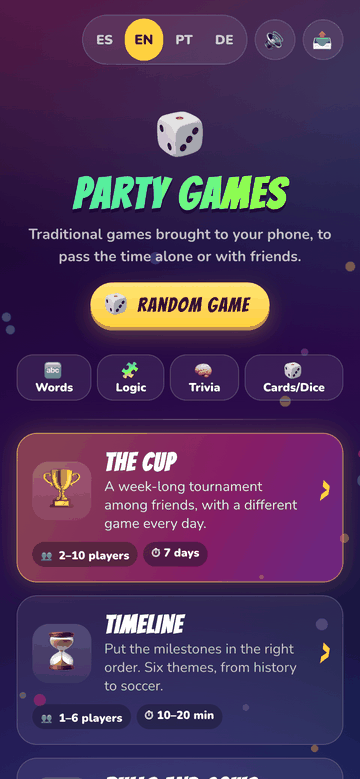
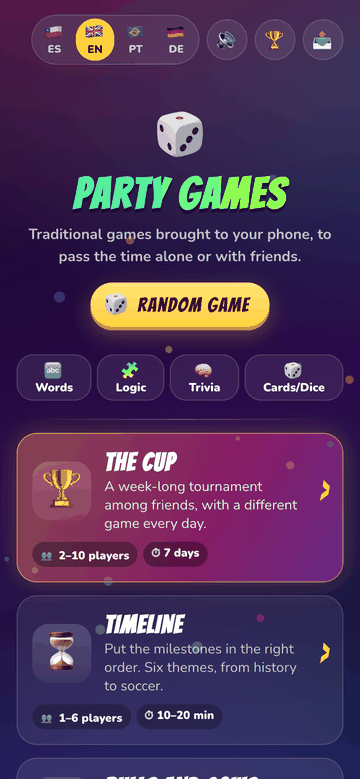
El selector de idioma lleva las banderas siempre, con un estándar en C-3 (D-230)
En un celular angosto la bandera sube encima del código en vez de esconderse: el toggle
queda del mismo ancho. BANDERAS y NOMBRES_IDIOMA en i18n.js, exigidos por la paridad.

diff --git a/public/assets/css/base.css b/public/assets/css/base.css
@@ -207,28 +207,30 @@ details.panel summary::-webkit-details-marker { display: none; }
 /* Confeti (canvas) */
 #confetti { position: fixed; inset: 0; pointer-events: none; z-index: 50; }
 
-/* --- Toggle de idioma --- */
+/* --- Toggle de idioma (D-230): bandera y código en cada botón, siempre --- */
 .lang-toggle {
   display: inline-flex; gap: 4px; padding: 4px; border-radius: 999px;
   background: var(--glass); border: 1px solid var(--glass-border);
 }
 .lang-toggle button {
+  display: inline-flex; align-items: center; justify-content: center; gap: 6px;
   border: 0; cursor: pointer; border-radius: 999px; padding: 7px 12px;
   min-height: 44px; /* C-8: un dedo cabe, como en todos los botones */
-  font: 900 0.9rem var(--font-body); color: var(--muted); background: transparent;
+  font: 900 0.9rem var(--font-body); line-height: 1; color: var(--muted); background: transparent;
   transition: background 0.15s, color 0.15s, transform 0.1s;
 }
+.lang-toggle .flag { font-size: 1.1em; }
 .lang-toggle button.on { background: var(--yellow); color: #3a1200; transform: scale(1.04); }
 .lang-toggle button:active { transform: scale(0.96); }
 /*
- * Con cuatro idiomas (el alemán en el laboratorio, D-191) el toggle mide unos 280 px y, en la
- * barra de arriba de la portada, empujaba el sonido y compartir fuera de la pantalla. En un
- * celular angosto se aprieta y deja solo el código (ES EN PT DE); si igual no cabe, los botones
- * redondos bajan a una segunda línea antes que salirse.
+ * Con cuatro idiomas el toggle en línea mide unos 290 px y, en la barra de arriba de la portada,
+ * empuja el sonido y compartir fuera de la pantalla. En un celular angosto la bandera no se
+ * esconde (antes sí, D-230): sube encima del código, y el toggle queda del ancho que tenía con
+ * el código solo. Si igual no cabe, los botones redondos bajan a una segunda línea antes que salirse.
  */
 @media (max-width: 440px) {
-  .lang-toggle:has(> :nth-child(4)) button { padding: 7px 10px; }
-  .lang-toggle:has(> :nth-child(4)) .flag { display: none; }
+  .lang-toggle:has(> :nth-child(4)) button { flex-direction: column; gap: 2px; padding: 4px 9px; font-size: 0.72rem; }
+  .lang-toggle:has(> :nth-child(4)) .flag { font-size: 1.25rem; }
 }
 .topbar .tools:has(> #lang-slot) { flex-wrap: wrap; justify-content: flex-end; }
 

diff --git a/public/assets/js/i18n.js b/public/assets/js/i18n.js
@@ -415,19 +415,27 @@ export function pickLang(obj, lang = getLang()) {
 }
 
 /**
- * Toggle ES / EN / PT. `onChange(lang)` se llama tras guardar el idioma nuevo.
- * Por defecto recarga la página para que todo se re-renderice con el idioma elegido.
+ * La bandera y el nombre propio de cada idioma, para el toggle (D-230). Un idioma nuevo trae
+ * los dos: la prueba de paridad lo exige. Es la bandera del país de la app en ese idioma
+ * (el español es el de Chile, el portugués el de Brasil, D-191, D-194).
+ */
+export const BANDERAS = { es: '🇨🇱', en: '🇬🇧', pt: '🇧🇷', de: '🇩🇪' };
+export const NOMBRES_IDIOMA = { es: 'Español', en: 'English', pt: 'Português', de: 'Deutsch' };
+
+/**
+ * El selector de idioma, el único de la app (D-230): cada botón lleva su bandera y su código,
+ * siempre, también en un celular angosto (base.css). `onChange(lang)` se llama tras guardar el
+ * idioma nuevo; por defecto recarga la página para que todo se re-renderice con el elegido.
  */
 export function langToggle(onChange = () => location.reload()) {
   const current = getLang();
   const wrap = el('div', { class: 'lang-toggle', role: 'group', 'aria-label': 'Idioma / Language / Idioma / Sprache' });
-  // La bandera va aparte: con cuatro idiomas en un celular angosto se esconde (base.css)
-  const flags = { es: '🇨🇱', en: '🇬🇧', pt: '🇧🇷', de: '🇩🇪' };
   for (const lang of LANGS) {
     wrap.append(el('button', {
       type: 'button', class: lang === current ? 'on' : '', 'aria-pressed': lang === current ? 'true' : 'false',
+      lang, title: NOMBRES_IDIOMA[lang], 'aria-label': NOMBRES_IDIOMA[lang],
       onClick: () => { if (lang === getLang()) return; setLang(lang); onChange(lang); },
-    }, el('span', { class: 'flag' }, flags[lang] + ' '), lang.toUpperCase()));
+    }, el('span', { class: 'flag', 'aria-hidden': 'true' }, BANDERAS[lang]), el('span', { class: 'code' }, lang.toUpperCase())));
   }
   return wrap;
 }

diff --git a/docs/DECISIONES.md b/docs/DECISIONES.md
@@ -53,7 +53,7 @@ que siguen explicando algo; las reemplazadas y derogadas quedan fuera.
 |---|---|---|
 | Estructura y rutas | C-2 | D-01, D-02, D-03, D-24, D-192, D-198 |
 | Identidad y textos | C-1 | D-11, D-30, D-49, D-177, D-184 |
-| Idiomas | C-3 | D-47, D-74, D-170, D-191, D-194, D-197, D-199 |
+| Idiomas | C-3 | D-47, D-74, D-170, D-191, D-194, D-197, D-199, D-230 |
 | Sonido y vibración | C-4 | D-17, D-92 |
 | Modos de juego | C-5 | D-27, D-65, D-129, D-142, D-213 |
 | Salas y transporte | C-7, C-15 | D-18, D-20, D-29, D-35, D-39, D-41, D-50, D-89, D-138 |
@@ -3800,3 +3800,19 @@ dentro de la app instalada.
 **Consecuencias:** Quien instala la app en un iPhone ve los avisos antes de que se abran a todos.
 Son pocos y es justo lo que se quiere probar. `push.test.mjs` y `tools/e2e/cup/avisos.mjs` lo
 prueban.
+
+## D-230 · El selector de idioma lleva las banderas siempre
+**Fecha:** 2026-10-05 · **Estado:** vigente · **Relación:** corrige la nota de `base.css` de D-191 (en un celular angosto se escondía la bandera)
+**Decisión:** Pedido del dueño: todos los selectores de idioma llevan sus banderas, y queda un
+estándar de diseño para el widget (C-3). En un celular de hasta 440 px, con cuatro idiomas, el
+toggle escondía las banderas para no empujar el sonido y compartir fuera de la barra de arriba:
+así, en el celular, que es donde más se juega, nunca se veían.
+- La bandera ya no se esconde: en una pantalla angosta sube **encima** del código, y el toggle
+  queda del ancho que tenía con el código solo (unos 180 px). En una pantalla ancha va al lado.
+- Las banderas y los nombres de cada idioma salen de `BANDERAS` y `NOMBRES_IDIOMA` en `i18n.js`,
+  y la prueba de paridad exige uno por idioma de `IDIOMAS`.
+- Cada botón dice su idioma en su idioma (`aria-label`, `title`, `lang`): la bandera es decorativa.
+**Por qué:** La bandera se reconoce antes que el código, sobre todo para quien no lee español.
+Apilarla mantiene el ancho y los 44 px de alto (C-8), así que la barra no cambia.
+**Consecuencias:** En Windows, los emoji de bandera se ven como dos letras (CL, GB…); se acepta,
+porque la app se juega en celulares. Hay un solo toggle en la app: el estándar queda en C-3.

diff --git a/docs/CANONES.md b/docs/CANONES.md
@@ -59,6 +59,18 @@ public/<carpeta>/
 - Todo texto visible vive en `LOCALES.es`, `LOCALES.en`, `LOCALES.pt` y `LOCALES.de` de `rules.js`. Ninguna cadena literal en `game.js`.
 - Los textos fijos del HTML se marcan con `data-i18n="clave"` (o `data-i18n-html`) y se aplican con `applyStatic(T)`.
 - El idioma se lee con `getLang()` y el toggle `langToggle()` va en la intro de cada juego.
+- **El selector de idioma es uno solo, `langToggle()`, y se ve igual en toda la app** (D-230).
+  Ninguna pantalla arma el suyo. Su estándar:
+  - Una píldora de vidrio (`--glass`) con un botón por idioma de `LANGS`, en el orden de `LANGS`.
+  - **Cada botón lleva la bandera y el código en mayúsculas, siempre** (🇨🇱 ES, 🇬🇧 EN, 🇧🇷 PT, 🇩🇪 DE).
+    La bandera es la del país de la app en ese idioma (`BANDERAS` en `i18n.js`). Nunca se esconde:
+    en una pantalla ancha va al lado del código, y en un celular angosto (≤ 440 px), arriba, para
+    que el toggle no crezca.
+  - El elegido, en amarillo (`--yellow`, texto `#3a1200`) y apenas más grande; los otros, en `--muted`.
+  - Cada botón mide al menos 44 px de alto (C-8), dice su idioma en su propio idioma a quien
+    no ve la bandera (`NOMBRES_IDIOMA`, como `aria-label` y `title`), y la bandera es decorativa
+    (`aria-hidden`).
+  - Un idioma nuevo trae su bandera y su nombre: la prueba de paridad lo exige.
 - Las traducciones se adaptan, no se calcan: los chistes y las referencias locales se reemplazan por equivalentes. El portugués es el de Brasil, informal ("você", "celular", "rolê"), y los nombres de los juegos se traducen (Quarto Rei, Toque e Fama, Batalha Naval, Linha do Tempo) igual que en inglés (D-48).
 - **En La Copa, lo personal va en tu idioma y lo del grupo en el de la copa** (D-170): la pantalla
   sigue el toggle de quien mira, pero las palabras de Conexiones y Palabra, los mensajes que se

diff --git a/CHANGELOG.md b/CHANGELOG.md
@@ -1,5 +1,10 @@
 # Changelog
 
+## 0.109.2 — 2026-10-05
+- **El selector de idioma lleva las banderas también en el celular** (D-230): antes, en una
+  pantalla angosta quedaban solo ES EN PT DE. Ahora la bandera va arriba de cada código, sin
+  que el selector crezca, y en una pantalla ancha va al lado, como siempre.
+
 ## 0.109.1 — 2026-10-05
 - **La campana de avisos aparece en la app del iPhone** (D-227): el iPhone abre la app agregada a
   inicio en la portada, sin lo que se activó en Safari, así que la campana no salía. Ahora sale
